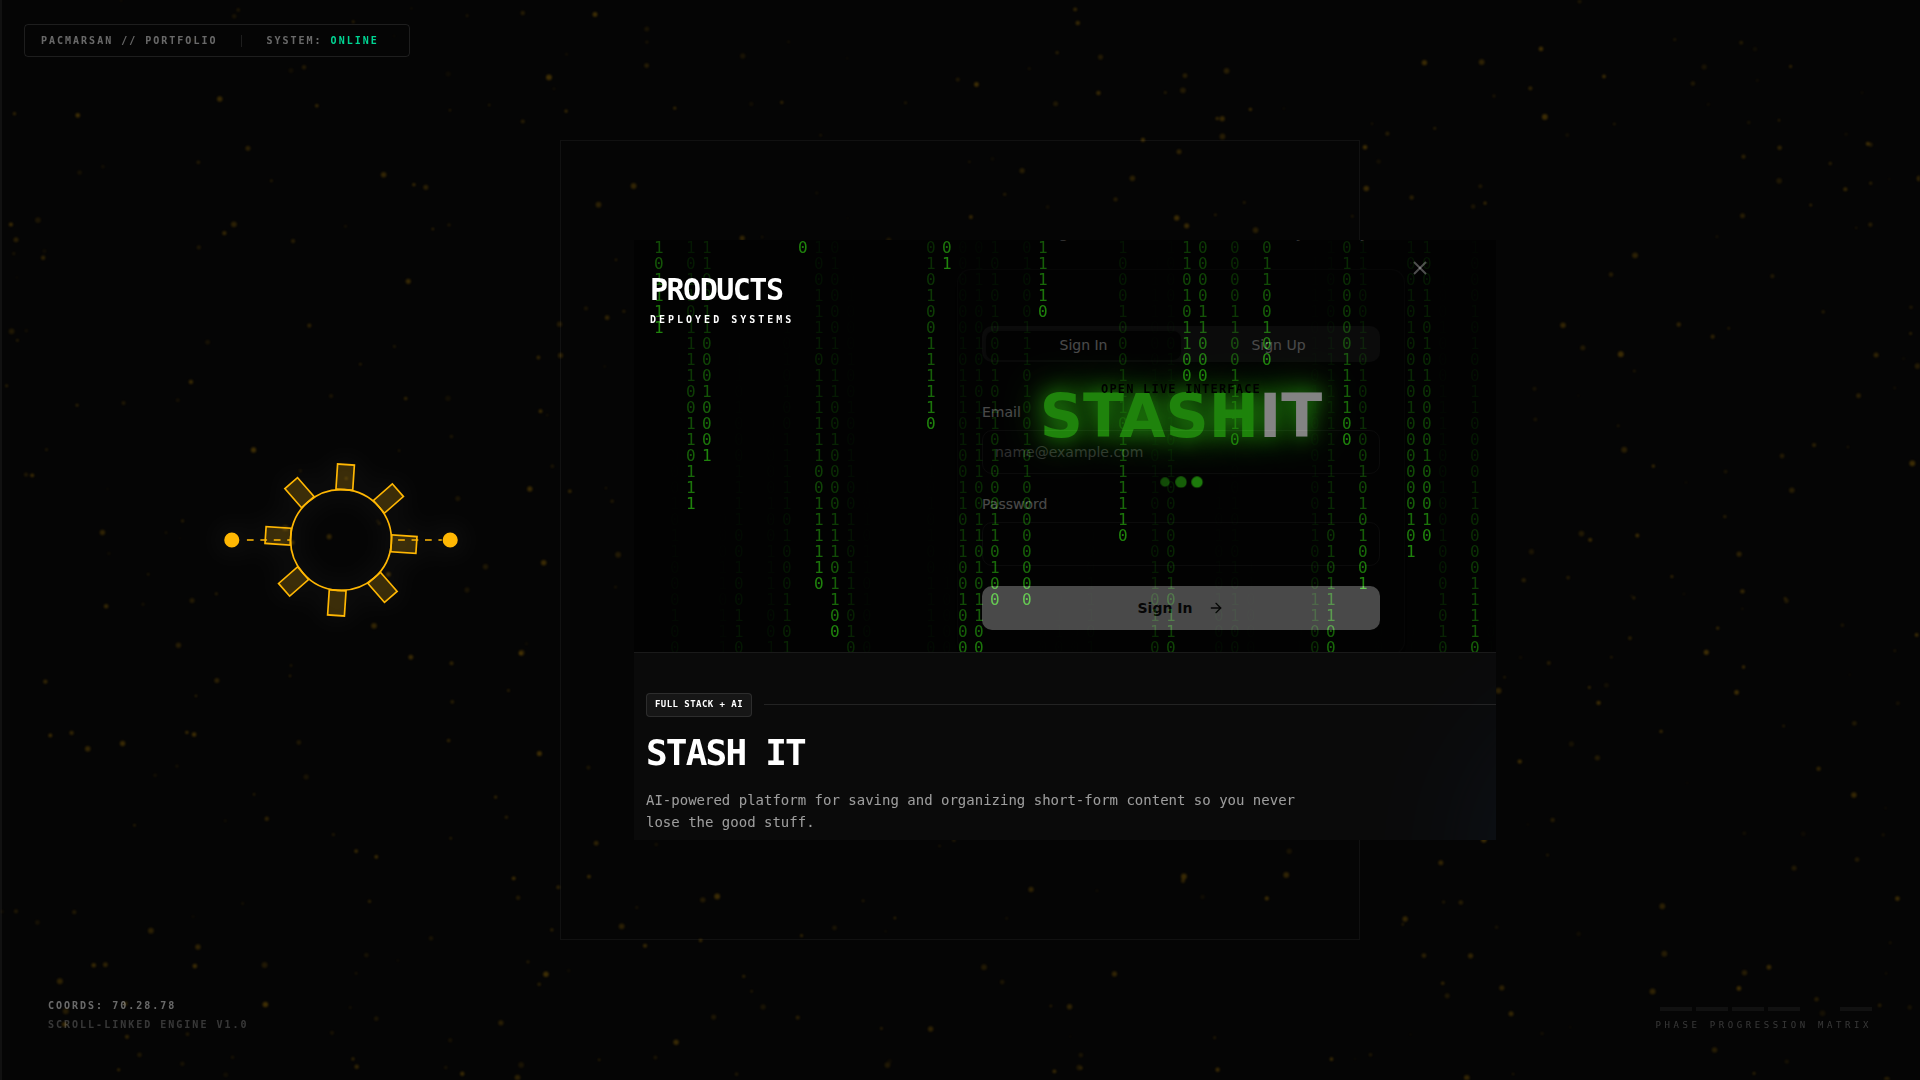
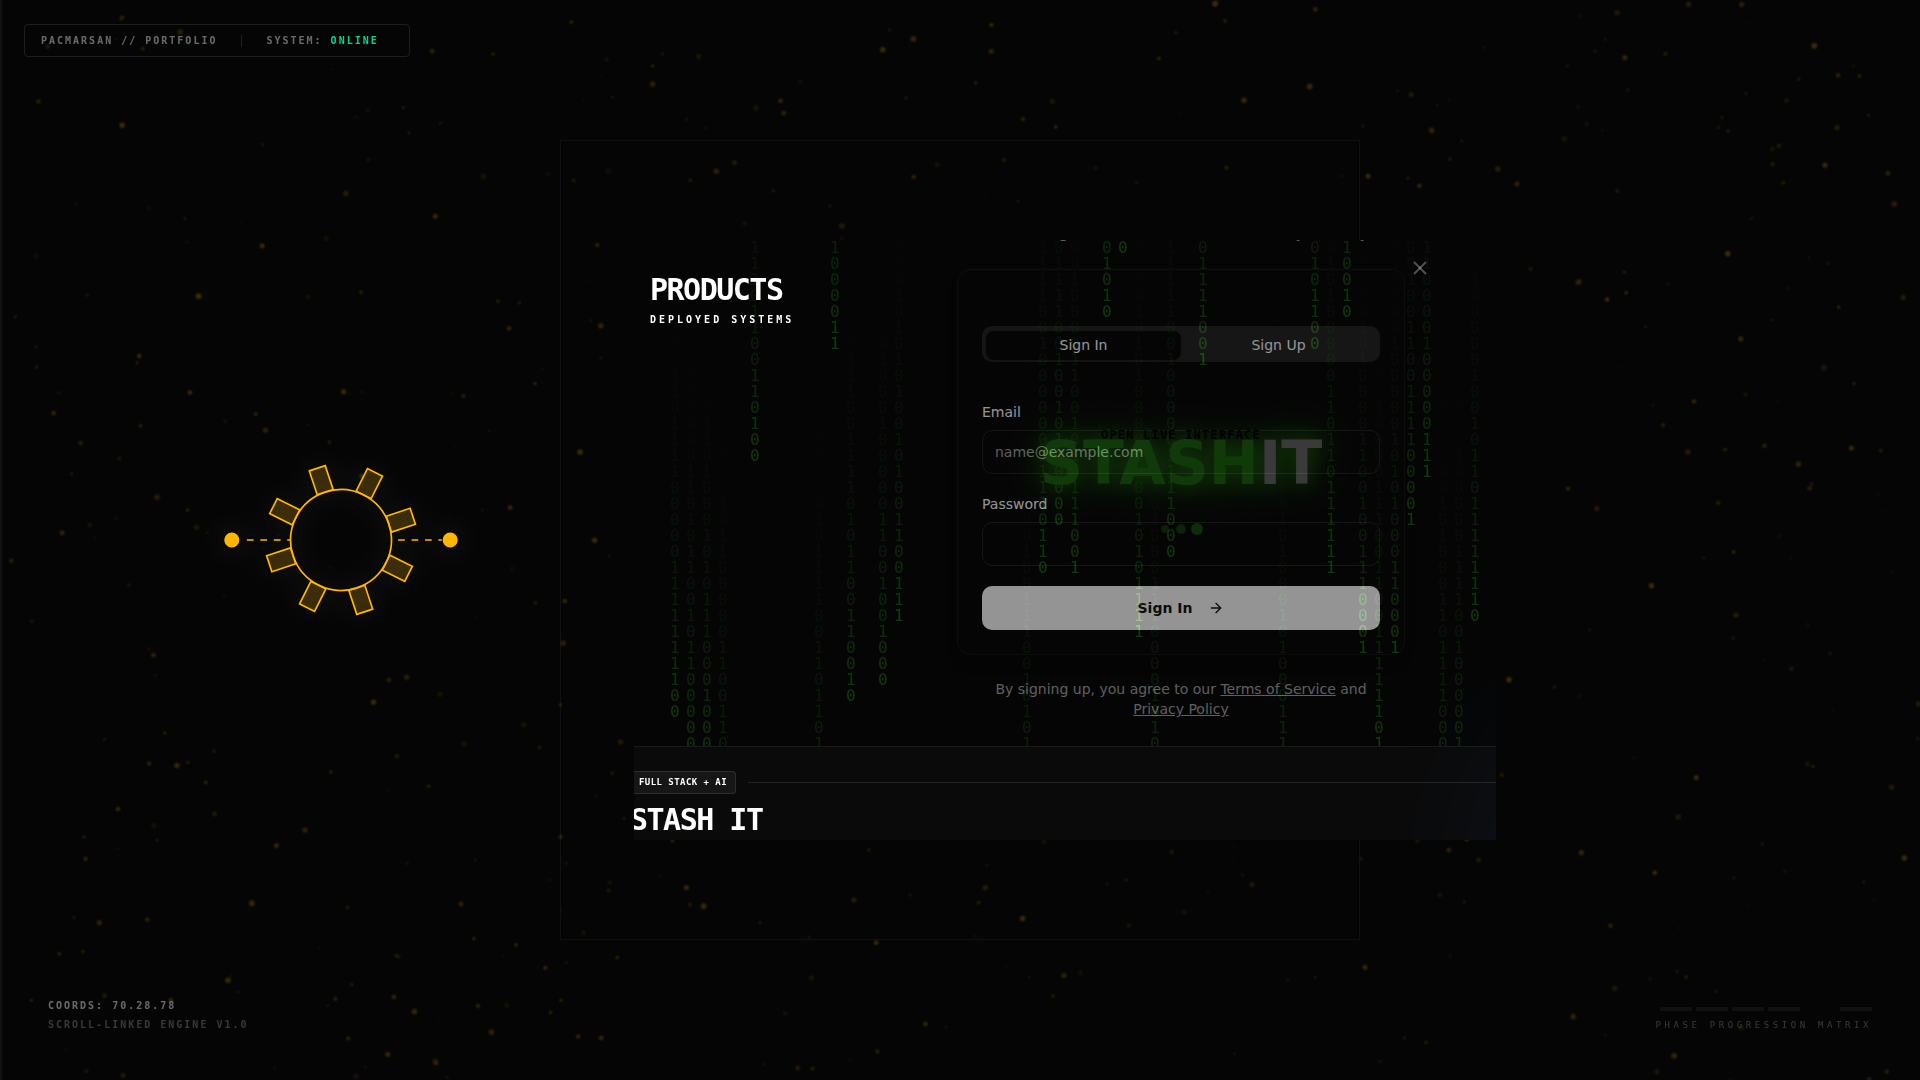
Update Products card layout to 80/20 split

diff --git a/components/ProductsArchive.tsx b/components/ProductsArchive.tsx
@@ -87,8 +87,8 @@ const ProductCard: React.FC<{ product: ProductData; index: number }> = ({ produc
       transition={{ delay: index * 0.1, duration: 0.6, ease: [0.16, 1, 0.3, 1] }}
       className="flex-shrink-0 w-[85vw] lg:w-[60vw] h-[75vh] lg:h-[80vh] flex flex-col snap-center relative group rounded-md overflow-hidden bg-[#0a0a0a] border border-white/10"
     >
-      {/* --- LIVE PREVIEW AREA (Top 65%) --- */}
-      <div className="relative h-[65%] w-full bg-black overflow-hidden border-b border-white/10">
+      {/* --- LIVE PREVIEW AREA (Top 80%) --- */}
+      <div className="relative h-[80%] w-full bg-black overflow-hidden border-b border-white/10">
 
         {/* Live Indicator */}
         <div className="absolute top-4 right-4 z-20 flex items-center gap-2 px-3 py-1 bg-black/60 backdrop-blur-md rounded-full border border-white/10">
@@ -156,8 +156,8 @@ const ProductCard: React.FC<{ product: ProductData; index: number }> = ({ produc
         </a>
       </div>
 
-      {/* --- INFO AREA (Bottom 35%) --- */}
-      <div className="flex-1 p-6 lg:p-10 relative bg-[#0a0a0a] flex flex-col justify-between">
+      {/* --- INFO AREA (Bottom 20%) --- */}
+      <div className="flex-1 p-5 lg:p-6 relative bg-[#0a0a0a] flex flex-col justify-between">
           {/* Background Gradient */}
           <div
             className="absolute bottom-0 right-0 w-64 h-64 rounded-full blur-[80px] opacity-10 pointer-events-none"
@@ -165,32 +165,32 @@ const ProductCard: React.FC<{ product: ProductData; index: number }> = ({ produc
           />
 
           <div className="relative z-10">
-              <div className="flex items-center gap-3 mb-4">
+              <div className="flex items-center gap-3 mb-2">
                  <span className="px-2 py-1 bg-white/5 border border-white/10 rounded-sm text-[9px] tracking-wider text-[var(--accent)] uppercase font-bold">
                     {product.role}
                  </span>
                  <div className="h-[1px] flex-1 bg-white/10" />
               </div>
 
-              <h2 className="text-3xl lg:text-4xl font-bold text-white tracking-tighter mb-4">
+              <h2 className="text-2xl lg:text-3xl font-bold text-white tracking-tighter mb-2">
                   <TerminalText text={product.title} />
               </h2>
 
-              <p className="text-sm text-white/60 font-light leading-relaxed max-w-2xl">
+              <p className="text-xs lg:text-sm text-white/60 font-light leading-relaxed max-w-2xl line-clamp-2">
                   {product.oneLiner}
               </p>
 
               {/* Tech Stack */}
-              <div className="flex flex-wrap gap-2 mt-6">
+              <div className="flex flex-wrap gap-2 mt-3 hidden lg:flex">
                   {product.techStack.map(tech => (
-                      <span key={tech} className="text-[10px] text-white/40 uppercase tracking-wider border border-white/10 px-2 py-1 rounded-sm">
+                      <span key={tech} className="text-[9px] text-white/40 uppercase tracking-wider border border-white/10 px-2 py-0.5 rounded-sm">
                           {tech}
                       </span>
                   ))}
               </div>
           </div>
 
-          <div className="relative z-10 flex items-center justify-between mt-6 pt-6 border-t border-white/5">
+          <div className="relative z-10 flex items-center justify-between mt-3 pt-3 border-t border-white/5">
                <a
                  href={product.liveUrl}
                  target="_blank"
